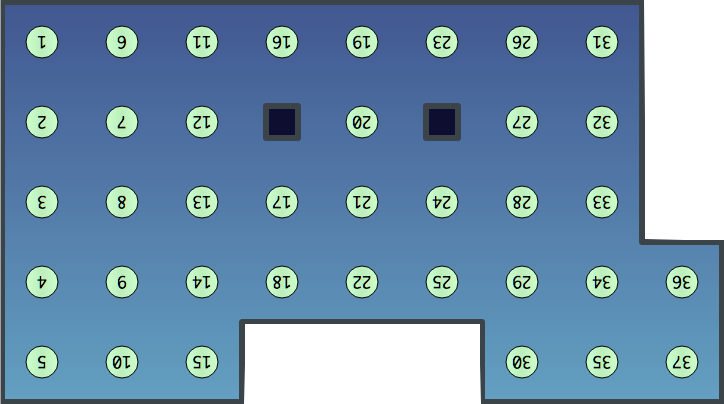
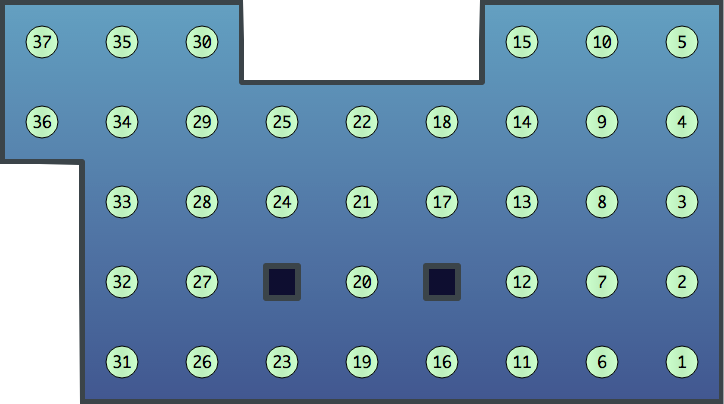
Images and new menu

diff --git a/website/r2lab-layout/status.html b/website/r2lab-layout/status.html
@@ -1,0 +1,94 @@
+<!DOCTYPE html>
+<html>
+  <head>
+    <meta http-equiv="Content-Type" content="text/html; charset=UTF-8">
+      <title>R2Lab testbed status and details</title>
+      <link rel="icon" type="image/png" href="assets/img/r2lab-icon.png"/>
+
+    <link type="text/css" rel="stylesheet" href="assets/css/bootstrap.min.css"/>
+    <link type="text/css" rel="stylesheet" href="assets/css/pilcrow.css"/>
+    <link type="text/css" rel="stylesheet" href="assets/css/hljs-github.min.css"/>
+    <!-- adding jquery to the mix -->
+    <script type="text/javascript" src="assets/js/jquery-2.1.4.min.js"></script>
+    <!-- our script for setting the active tabs right -->
+    <script type="text/javascript" src="assets/js/active-tab.js"></script>
+    <!-- extra space for navbar-fixed-top -->
+    <style type="text/css">
+      body { padding-top: 70px; }
+    </style>
+  </head>
+<body>
+
+  <nav class="navbar navbar-default navbar-fixed-top" role="navigation">
+    <div class="container">
+      <div class="navbar-header">
+        <button type="button" class="navbar-toggle" data-toggle="collapse" data-target="#bs-example-navbar-collapse-1">
+          <span class="sr-only">Toggle navigation</span>
+          <span class="icon-bar"></span>
+          <span class="icon-bar"></span>
+          <span class="icon-bar"></span>
+        </button>
+        <a class="navbar-brand" href="index.html">
+          <img alt="logo" style="height:18px;" src="assets/img/r2lab-logo.png" />
+        </a>
+      </div>
+
+      <div class="collapse navbar-collapse" id="bs-example-navbar-collapse-1">
+        <ul class="nav navbar-nav">
+          <li id="tab-overview"  tab="status"><a href="overview.html">Overview</a></li>
+          <li class="dropdown" id="tab-platform" tab="status">
+            <a href="#" class="dropdown-toggle" data-toggle="dropdown">Platform<b class="caret"></b></a>
+            <ul class="dropdown-menu">
+              <li><a href="topology.html">Topology</a></li>
+              <li><a href="hardware.html">Hardware</a></li>
+              <li><a href="tools.html">Tools</a></li>
+            </ul>
+          </li>
+          <li class="dropdown" id="tab-guides" tab="status">
+            <a href="#" class="dropdown-toggle" data-toggle="dropdown">Guides<b class="caret"></b></a>
+            <ul class="dropdown-menu">
+              <li><a href="tuto-01-registration.html">Registration</a></li>
+              <li><a href="tuto-02-michelle.html">SSH access</a></li>
+            </ul>
+          </li>
+          <li id="tab-events" tab="status"><a href="events.html">Events</a></li>
+        </ul>
+        <ul class="nav navbar-nav navbar-right">
+          <li>
+            <a href="http://portal.onelab.eu" target="_blank">
+              <img src="assets/img/onelab-logo.png" style="height:18px;"> FIT Portal
+            </a>
+          </li>
+        </ul>
+      </div>
+    </div>
+  </nav>
+
+  <div class="jumbotron" style="background:url(assets/img/back.jpg)no-repeat; background-size:100%; height:310px ;">
+  </div>
+
+  <div class="container">
+    <div class="page-header">
+      <h1>R2Lab testbed status and details </h1>
+    </div><p>R2Lab project offers a hight quality anechoic room for your experiments. Following are the details of the anechoic room.</p>
+<h3 id="layout"><a class="header-link" href="#layout"></a>Layout</h3>
+<p>Here is the ground plan layout of the anechoic room which provide thirty-seven wireless nodes distributed in a XXm<sup>2</sup> room.</p>
+<center>
+    <img src="map.png" alt="Nodes location in the room"><br>
+    Fig. 1 - Resources status 
+</center>
+
+<p><br></p>
+<h3 id="topology"><a class="header-link" href="#topology"></a>Topology</h3>
+<p>Bla</p>
+<p><br></p>
+<center>
+    <img src="topology.png" alt="Nodes location in the room"><br>
+    Fig. 2 - Resources topology 
+</center>
+  </div>
+
+  <script type="text/javascript" src="http://ajax.googleapis.com/ajax/libs/jquery/1.11.0/jquery.min.js"></script>
+  <script type="text/javascript" src="assets/js/bootstrap.min.js"></script>
+</body>
+</html>

diff --git a/website/topology.md b/website/topology.md
@@ -9,7 +9,7 @@ R2Lab testbed project offers a hight quality anechoic room for your experiments.
 Here is the ground plan layout of the anechoic room which provide thirty-seven wireless nodes distributed in a **≈ 90m<sup>2</sup>** room.
 
 <center>
-	<img src="layout.png" style="width:950px; height:592px;"/><br>
+	<img src="assets/img/status.png" style="width:950px; height:592px;"/><br>
 	Fig. 1 - Resources status 
 </center>
 
@@ -23,6 +23,6 @@ Bla
 <br>
 
 <center>
-	<img src="topology.png" style="width:950px; height:592px;"/><br>
+	<img src="assets/img/topology.png" style="width:950px; height:592px;"/><br>
 	Fig. 2 - Resources layout 
 </center>

diff --git a/website/overview.md b/website/overview.md
@@ -19,7 +19,7 @@ tab: overview
 
   <div class="col-md-6">
   	<br>
-  	<img src="assets/img/over_1.JPG">
+  	<img src="assets/img/nodes_range.jpg">
   </div>
 </div>
 
@@ -28,7 +28,7 @@ tab: overview
 <div class="row">
   <div class="col-md-3">
     <br>
-    <img src="assets/img/node_1.JPG">
+    <img src="assets/img/node_back.jpg">
   </div>
   
   <div class="col-md-7"> 
